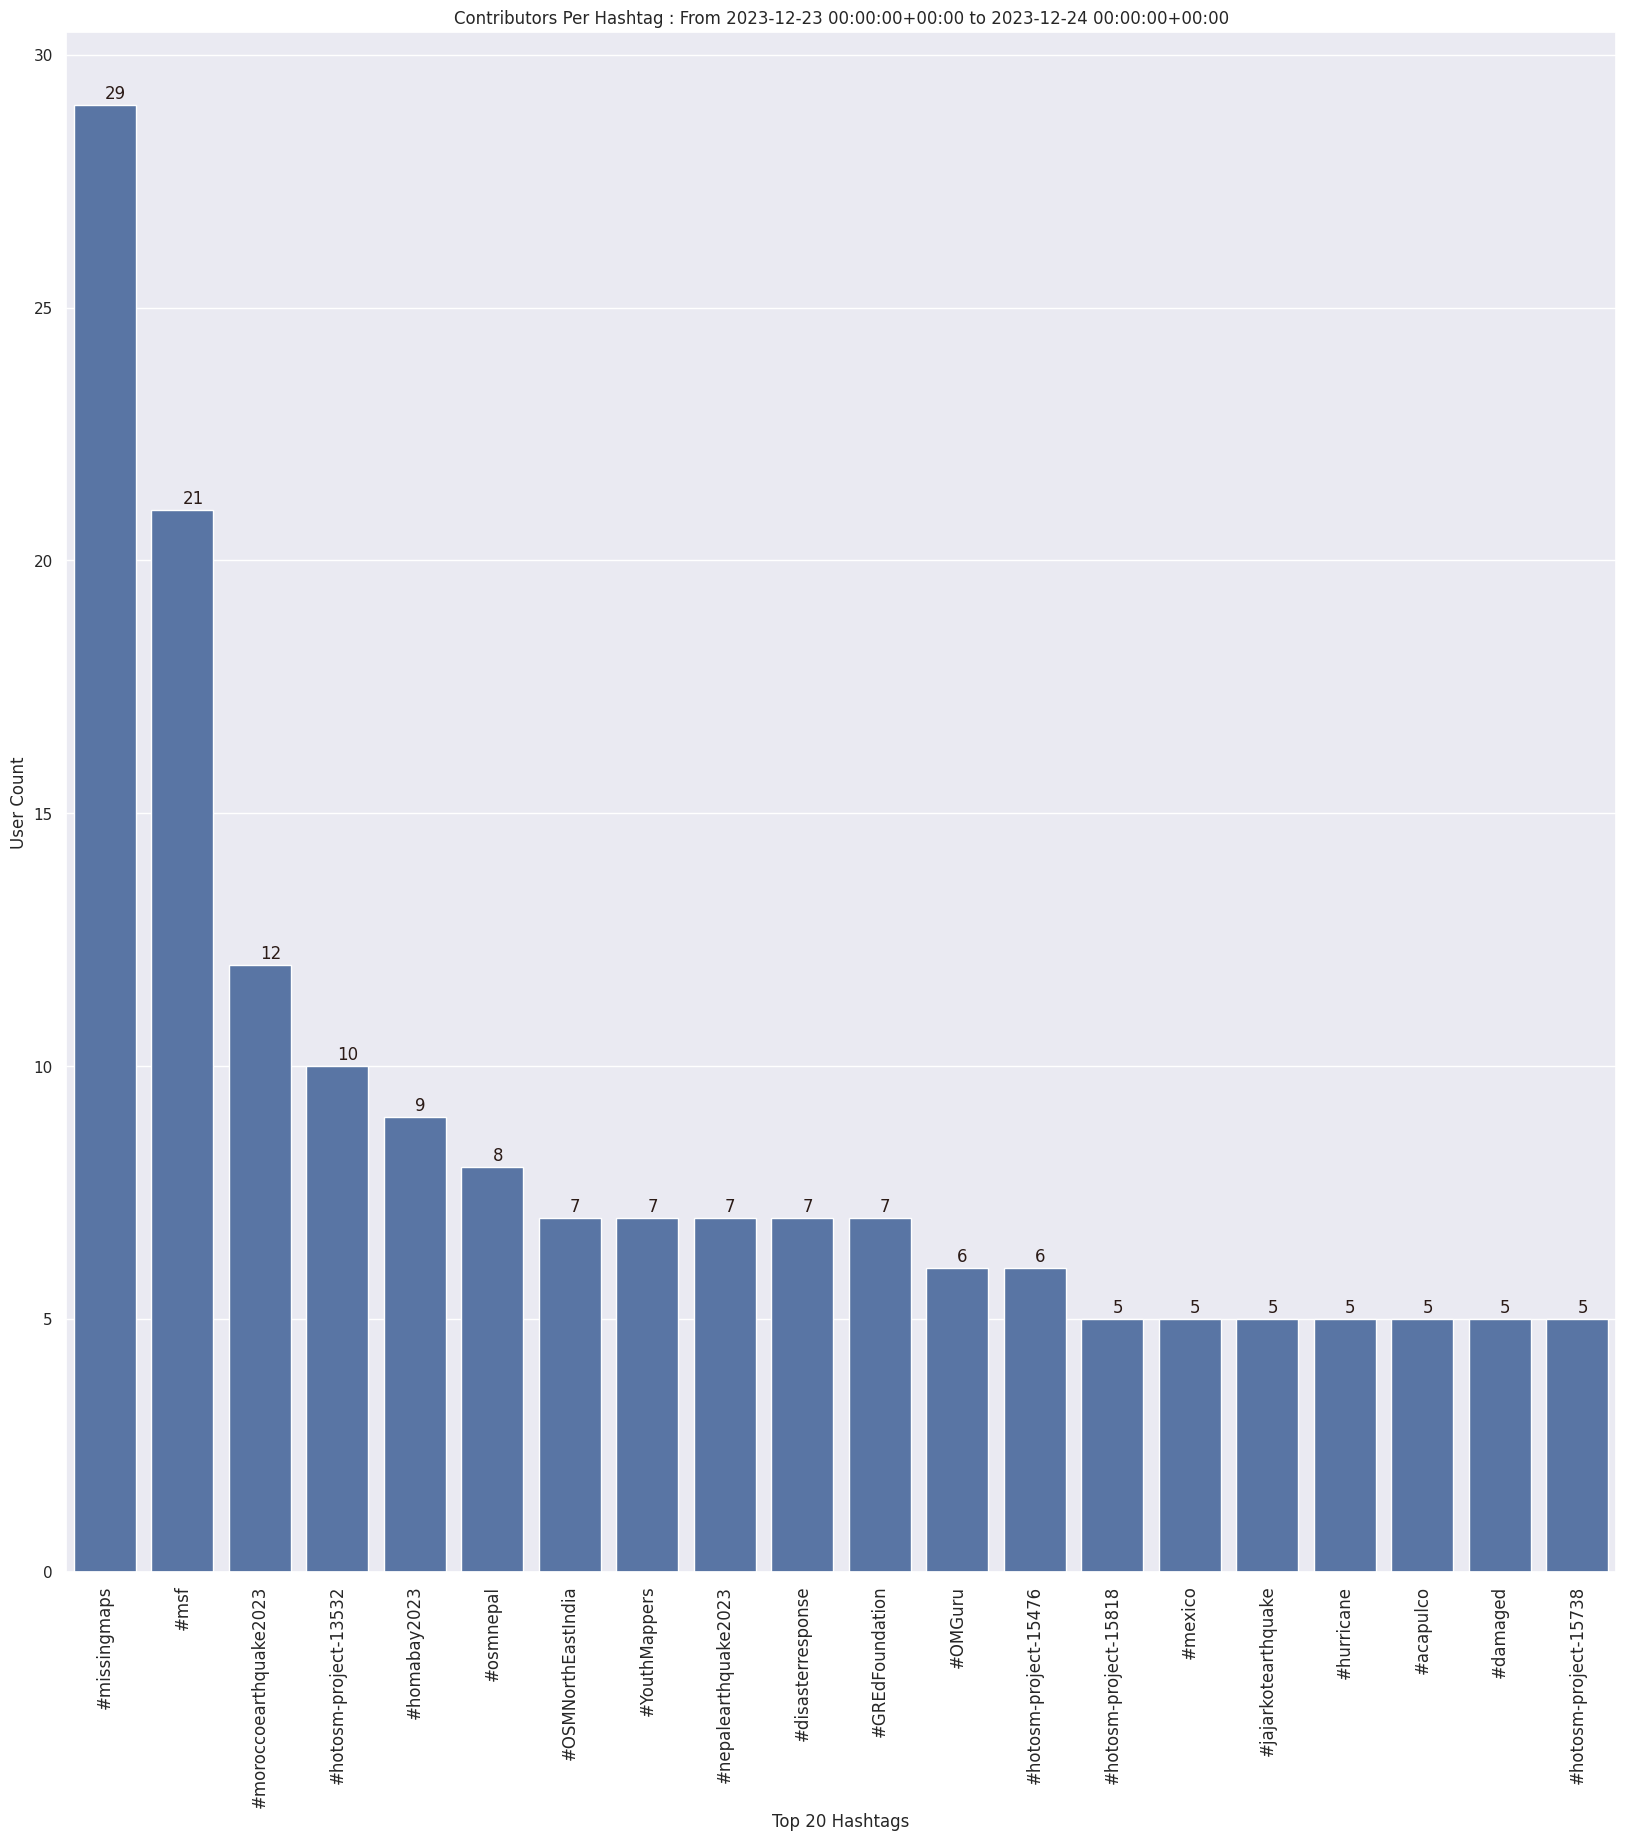
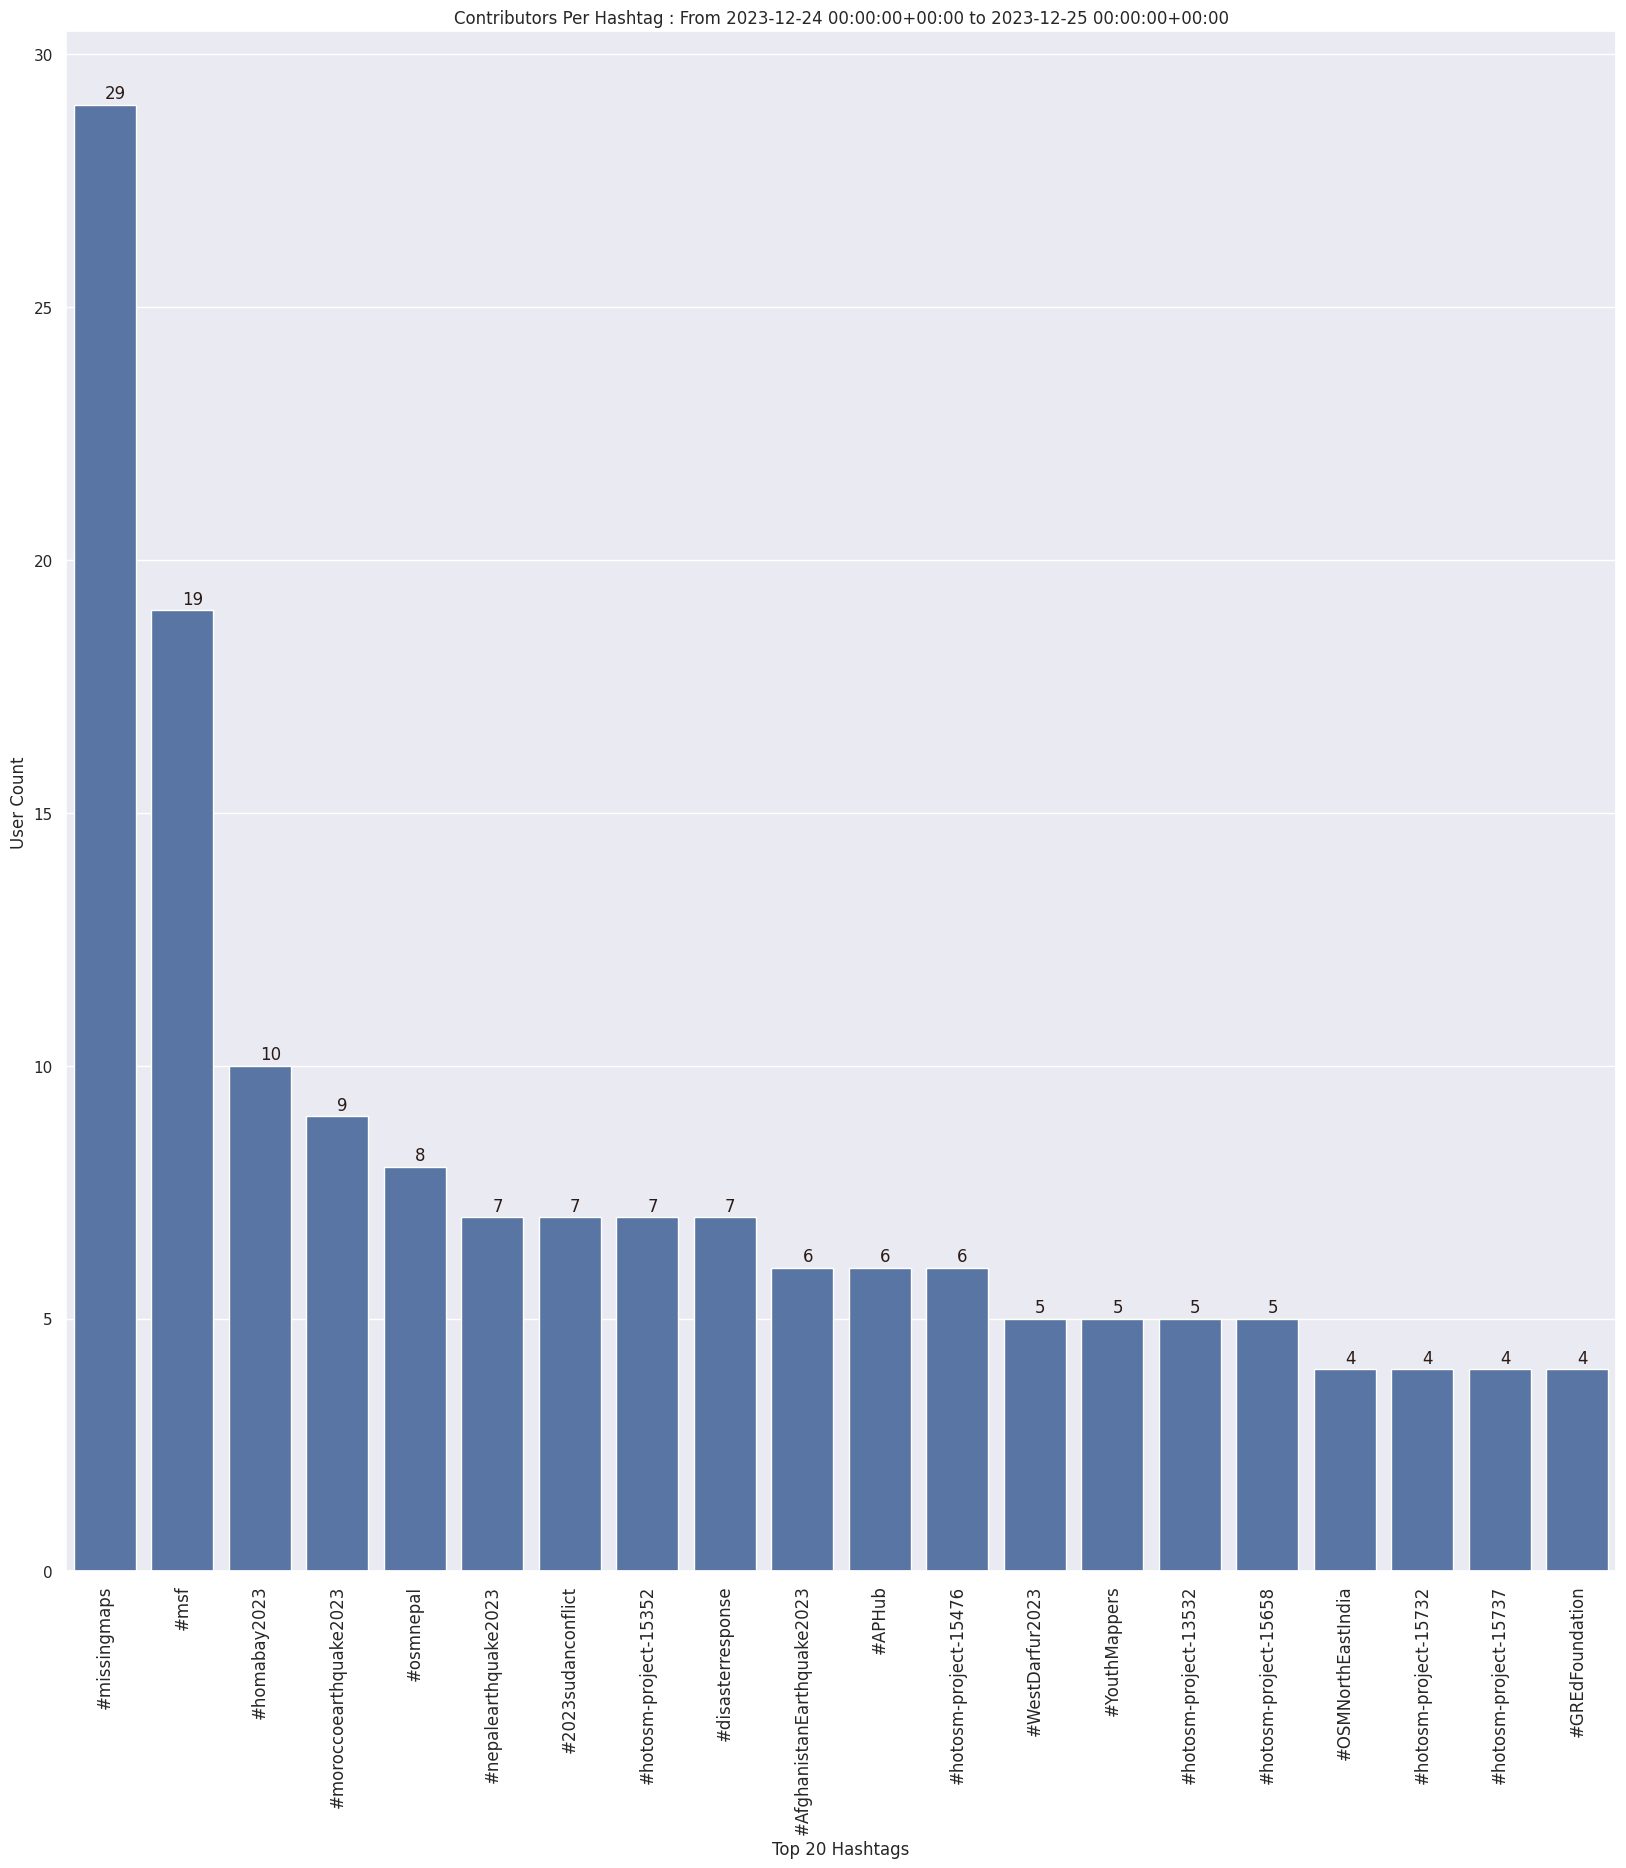
Updated Daily hotosm stats

diff --git a/stats/hotosm/Daily/Readme.md b/stats/hotosm/Daily/Readme.md
@@ -1,63 +1,63 @@
-### Last Update : Stats from 2023-12-23 00:00:00+00:00 to 2023-12-24 00:00:00+00:00 (UTC Timezone)
+### Last Update : Stats from 2023-12-24 00:00:00+00:00 to 2023-12-25 00:00:00+00:00 (UTC Timezone)
 
-#### 119 Users made 788 changesets with 139.9 thousand map changes.
-#### 87.6 thousand OSM Elements were Created, 36.1 thousand Modified & 16.2 thousand Deleted.
+#### 97 Users made 737 changesets with 98.6 thousand map changes.
+#### 51.7 thousand OSM Elements were Created, 34.4 thousand Modified & 12.5 thousand Deleted.
 Get Full Stats at [stats.csv](/stats/hotosm/Daily/stats.csv)
  & Get Summary Stats at [stats_summary.csv](/stats/hotosm/Daily/stats_summary.csv)
 
 Top 5 Users are : 
-- Libor Bednarik : 16.8 thousand Map Changes
-- Siem_Hw : 5.7 thousand Map Changes
-- JohnW11 : 5.7 thousand Map Changes
-- la_nenemini : 5.7 thousand Map Changes
-- Norbert Dichter : 5.4 thousand Map Changes
+- JohnW11 : 8.2 thousand Map Changes
+- KingVik : 7.4 thousand Map Changes
+- Frans S : 6.2 thousand Map Changes
+- TeBaMa : 5.8 thousand Map Changes
+- anthaas : 5.2 thousand Map Changes
 
 Summary of Supplied Tags
-- poi = Created: 43, Modified : 31
-- building = Created: 13.2 thousand, Modified : 980
-- highway = Created: 263, Modified : 557
-- waterway = Created: 8, Modified : 34
-- amenity = Created: 5, Modified : 11
+- poi = Created: 24, Modified : 25
+- building = Created: 7.3 thousand, Modified : 947
+- highway = Created: 288, Modified : 522
+- waterway = Created: 30, Modified : 43
+- amenity = Created: 0, Modified : 6
 
 
 Top 5 Created tags are :
-- building: 13.2 thousand
-- source: 1.3 thousand
-- highway: 263
-- landuse: 71
-- barrier: 41
+- building: 7.3 thousand
+- highway: 288
+- landuse: 145
+- aquaculture: 100
+- seamark:type: 100
 
 
 Top 5 Modified tags are :
-- building: 980
-- highway: 557
-- surface: 138
-- source: 92
-- landuse: 80
+- building: 947
+- highway: 522
+- surface: 140
+- landuse: 89
+- source: 65
 
 
 Top 5 trending hashtags are:
 - #missingmaps : 29 users
-- #msf : 21 users
-- #moroccoearthquake2023 : 12 users
-- #hotosm-project-13532 : 10 users
-- #homabay2023 : 9 users
+- #msf : 19 users
+- #homabay2023 : 10 users
+- #moroccoearthquake2023 : 9 users
+- #osmnepal : 8 users
 
 
 Top 5 trending editors are:
-- iD 2.21.1 : 69 users
-- JOSM/1.5 (18907 en) : 13 users
-- JOSM/1.5 (18822 en) : 10 users
-- JOSM/1.5 (18907 en_GB) : 5 users
+- iD 2.21.1 : 46 users
+- JOSM/1.5 (18822 en) : 12 users
+- JOSM/1.5 (18907 en) : 11 users
+- JOSM/1.5 (18907 en_GB) : 7 users
 - JOSM/1.5 (18907 nl) : 3 users
 
 
 Top 5 trending Countries where user contributed are:
-- Kenya : 28 users
-- Morocco : 11 users
-- Sudan : 9 users
-- India : 9 users
-- Nepal : 9 users
+- Kenya : 17 users
+- Sudan : 10 users
+- Morocco : 9 users
+- Nepal : 8 users
+- Zambia : 7 users
 
 
  Charts : 
